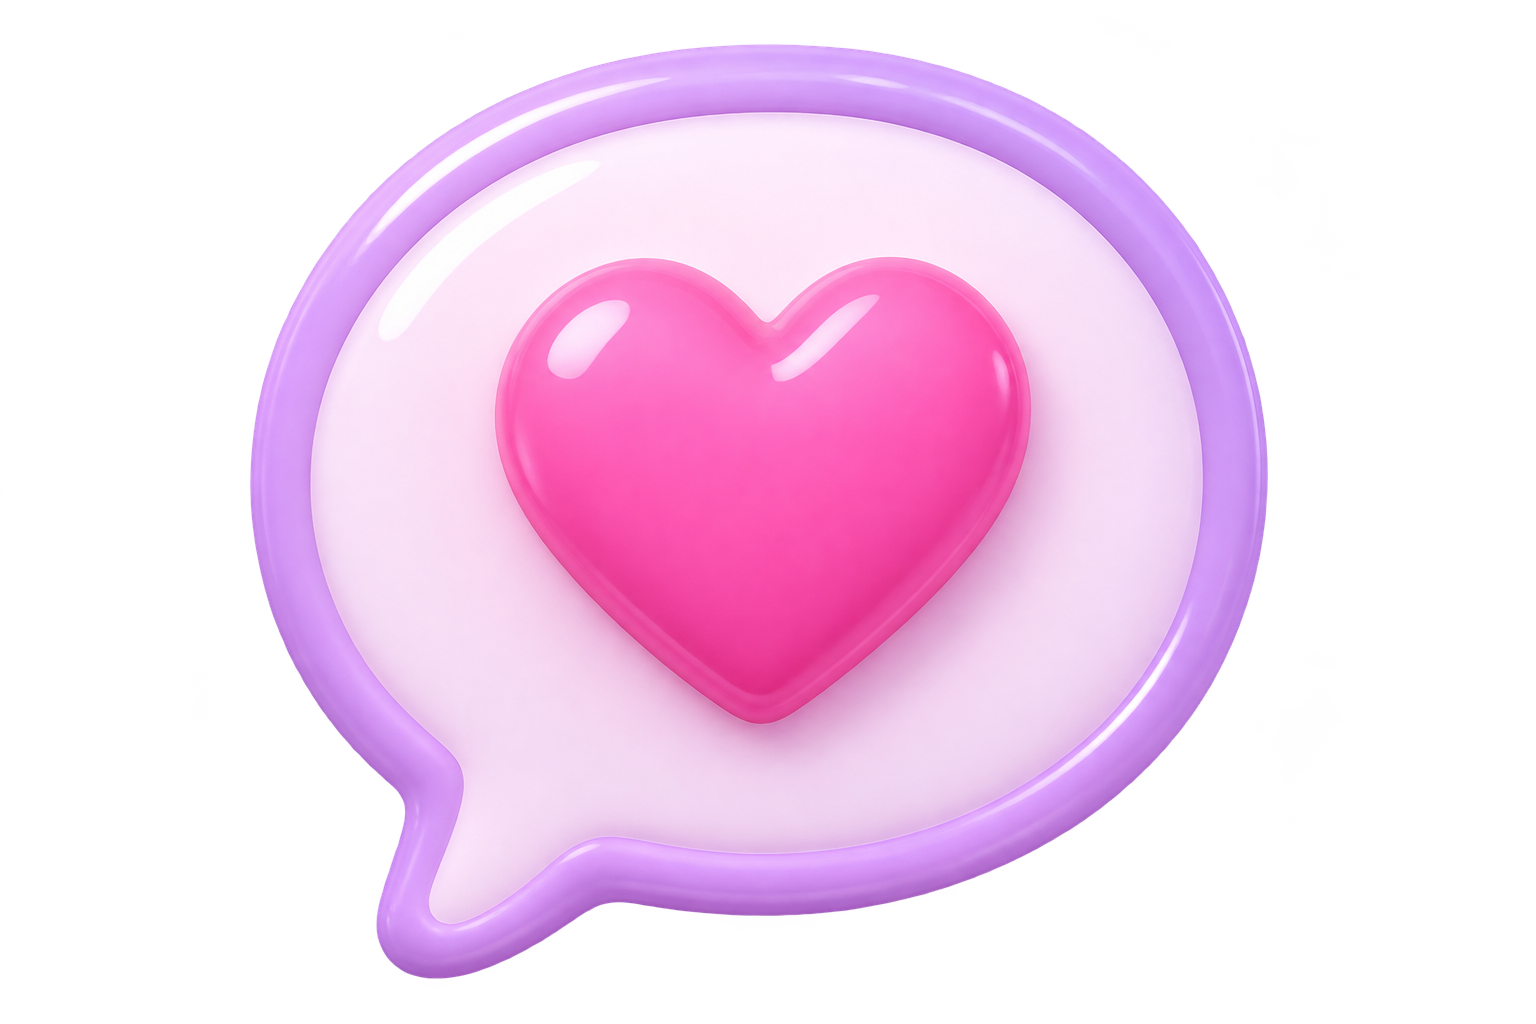
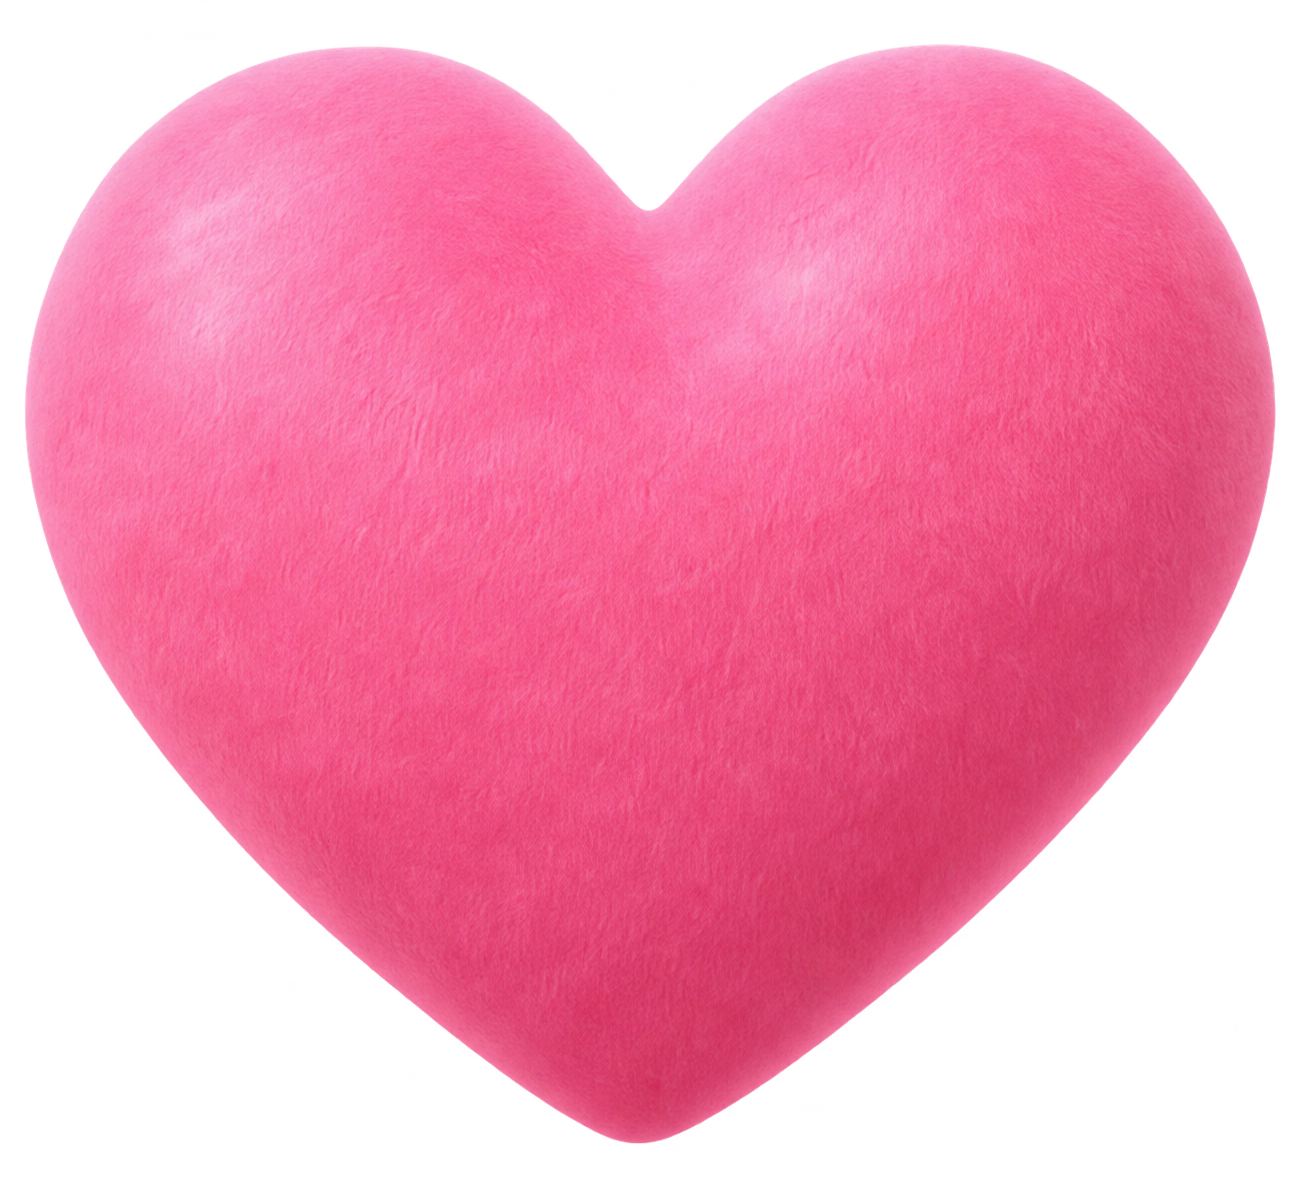
Refinar proporções e ilustrações do desktop

diff --git a/style.css b/style.css
@@ -192,3 +192,10 @@ html,body{max-width:100%;overflow-x:clip}img{max-width:100%}dialog{max-height:mi
   .scene-cloud{width:clamp(76px,8vw,125px);height:clamp(58px,8vh,82px)}
   .scene-heart{width:clamp(72px,7.5vw,115px);height:clamp(68px,9vh,90px)}
 }
+
+@media (min-width:651px){
+  .login-box{width:88%;margin-left:auto;margin-right:auto}
+  .cloud-one{width:clamp(92px,9vw,138px);height:clamp(70px,9vh,96px)}
+  .cloud-two{width:clamp(78px,7.5vw,112px);height:clamp(58px,7.5vh,82px)}
+  .scene-heart{width:clamp(54px,5vw,80px);height:clamp(54px,7vh,76px)}
+}
